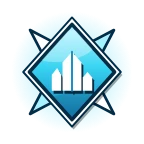
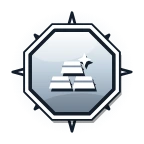
Cards: new Eclipse, Platinum and Master art; Champion goes green
- Eclipse: total eclipse over a night desert - thin bright ring, slowly
  turning corona streamers, a diamond-ring flare with a light streak, and
  mesa and cactus silhouettes rimmed in gold.
- Platinum no longer looks like diamond: polished platinum plates with
  running reflections and stacked ingots; octagon plate emblem with an
  ingot glyph and silver glints.
- Master: crimson/black focus lines with a large scope reticle and bullet
  holes; reticle glyph and a fan of blades on the emblem.
- Champion is green with gold accents (palette, emblem, bandolier, name
  plates, rank colour, lightning-arrow background).
- Fix: the Eclipse border sheen leaked outside the card when a bio was
  shown (the bio bubble reused the border-width variable).
- Guide emblem images regenerated; update notes adjusted.

Claude-Session: https://claude.ai/code/session_0164eB5PaZJ6XHbAKazwPAse

diff --git a/index.html b/index.html
@@ -6214,7 +6214,7 @@ function renderProfileUI(){
 // 下から：LT5<HT5<LT4<HT4<LT3<HT3<LT2<HT2<LT1<HT1
 // color は画面の差し色（進み具合のバー・丸いアイコンの背景・Discord）。紋章の素材は TIER_STYLE
 // ランク（8つ×Ⅰ〜Ⅲの24段）。key は通信や記録に使う記号（BR1〜EC3）、color はランクの色（Ⅰ〜Ⅲは同じ）
-var RANK_COLOR=['#6874B8','#C9824C','#A3AAB4','#E2B13C','#8FD3F5','#B983FF','#E0314B','#4FAEFF','#FFE7A8'];
+var RANK_COLOR=['#6874B8','#C9824C','#A3AAB4','#E2B13C','#C3D5E2','#B983FF','#E0314B','#3FD86A','#FFE7A8'];
 var TIER_LADDER=SIM.TIER_KEYS.map(function(k,i){var rk=SIM.rankOf(i);return{key:k,color:RANK_COLOR[rk.r],r:rk.r,d:rk.d};});
 // CPU戦の到達度（0〜10）。称号・背景の解放と、ランクマッチを始めるまでのレートの下限に使う
 function cpuTierIndex(){
@@ -11581,7 +11581,8 @@ var METAL={
   ivory:  ['#FFFFFF','#FFFBF0','#F3E9D0','#DCCBA4','#B39E72'],
   platinum:['#FFFFFF','#E6F4F8','#B6D3DE','#7E9FAD','#4D6B79'],   // プラチナ：青みのある白銀
   amethyst:['#F6E9FF','#CFA6F5','#9A63D2','#62349A','#331856'],   // レジェンド：紫水晶
-  cobalt: ['#DCEEFF','#6FB2F2','#3576C7','#1B4C8F','#0B2552']     // チャンピオン：青い鋼
+  cobalt: ['#DCEEFF','#6FB2F2','#3576C7','#1B4C8F','#0B2552'],    // 青い鋼
+  emerald:['#E2FFE8','#7BE79A','#2FB45A','#167A35','#073D19']     // チャンピオン：緑の鋼
 };
 var LENS='#B3162E';   // スコープのレンズの色
 // 上から光が当たった金属（明るい面・暗い帯・照り返し）
@@ -11610,7 +11611,7 @@ var TIER_STYLE=[
   {m:'platinum',trim:'platinum',glow:'#D8F6FF',bg:['#5F8494','#22363F','#070D12'],pill:['#F4FBFE','#A9C9D6','#FFFFFF','#16323E'],rib:['#2C6F86','#0D2B38','#D8F6FF','#FFFFFF']},   // プラチナ
   {m:'amethyst',trim:'amethyst',glow:'#DCAEFF',bg:['#4A2A6E','#1E1030','#07030E'],pill:['#D7B4FF','#8A55CC','#F3E4FF','#1E0B32'],rib:['#4A1F72','#1E0B32','#CFA6F5','#FFF3FF']},   // レジェンド
   {m:'crimson', trim:'silver',  glow:'#FF6A6A',bg:['#4A1018','#20070B','#070203'],pill:['#E0283C','#8E0F22','#E6EBF0','#FFFFFF'],rib:['#6E0F1C','#2C050B','#E6EBF0','#FFFFFF']},   // マスター
-  {m:'cobalt',  trim:'gold',    glow:'#7CC8FF',bg:['#123E86','#071A3E','#01040E'],pill:['#4FAEFF','#1E5FB8','#FFD968','#FFFFFF'],rib:['#0F3A86','#061736','#EBC867','#FFF3D0']},   // チャンピオン
+  {m:'emerald', trim:'gold',    glow:'#7CF29A',bg:['#0E5A2A','#05260F','#010A04'],pill:['#3FD86A','#178A3E','#FFD968','#FFFFFF'],rib:['#0F5A2A','#052A12','#EBC867','#FFF3D0']},   // チャンピオン（緑）
   {m:'onyx',    trim:'gold',    glow:'#FFD98A',bg:['#2B2631','#131016','#050406'],pill:['#3A3440','#121016','#E8B84A','#F5D67A'],rib:['#1E1B22','#07060A','#FFD968','#FFE7A0']}    // エクリプス
 ];
 function artStyle(a){return TIER_STYLE[a]||TIER_STYLE[0];}           // 絵の番号で
@@ -11829,10 +11830,10 @@ var TIER_BG=[
   {c:['#94502A','#3E1D0C','#0A0402'],glow:'#FFB478',acc:'#FFD7BD',pat:'strata', par:'dust',    flat:'pop1',pop:1,   em:'shield'},    // ブロンズ：荒野の夕日・青銅の盾
   {c:['#56606D','#23282F','#07080A'],glow:'#D3DCE8',acc:'#DCE2EA',pat:'rivets', par:'sparks',  flat:'pop2',pop:1,    em:'gear'},      // アイアン：鉄の歯車・火花
   {c:['#B07A14','#452C06','#0B0602'],glow:'#FFD65C',acc:'#FFF1B8',pat:'sheriff',par:'coins',   flat:'pop3',pop:1,  em:'sheriff'},   // ゴールド：金の保安官の星
-  {c:['#9FD6EC','#2B5A70','#06121A'],glow:'#D8F6FF',acc:'#F2FCFF',pat:'snow',   par:'motes',   flat:'pop4',pop:1, em:'crystal'},   // プラチナ：白銀の結晶
+  {c:['#C4D3DF','#5A6B7C','#0E151E'],glow:'#E8F4FF',acc:'#FFFFFF',pat:'snow',   par:'motes',   flat:'pop4',pop:1, em:'ingot'},   // プラチナ：白銀の結晶
   {c:['#6E2FA6','#2A1044','#07030E'],glow:'#DCAEFF',acc:'#F4E4FF',pat:'suits',  par:'shards',  flat:'pop5',pop:1,   em:'planet'},    // レジェンド：紫の宇宙・輪のある惑星
-  {c:['#A3172D','#3F0812','#0A0103'],glow:'#FF7182',acc:'#FFD6DC',pat:'roses',  par:'petals',  flat:'pop6',pop:1,   em:'flames'},    // マスター：深紅の炎
-  {c:['#1348A8','#08204E','#01040E'],glow:'#56CCFF',acc:'#D4F3FF',pat:'flames', par:'embers',  flat:'pop7',pop:1,em:'bolt'},      // チャンピオン：青い稲妻
+  {c:['#A3172D','#3F0812','#0A0103'],glow:'#FF7182',acc:'#FFD6DC',pat:'roses',  par:'petals',  flat:'pop6',pop:1,   em:'reticle'},    // マスター：深紅の炎
+  {c:['#178A3E','#08391A','#010A04'],glow:'#7CF29A',acc:'#DFFFE6',pat:'flames', par:'embers',  flat:'pop7',pop:1,em:'bolt'},      // チャンピオン：緑の稲妻
   {c:['#2A2216','#0E0B08','#030202'],glow:'#FFD98A',acc:'#FFF1C8',pat:'deco',   par:'golddust',flat:'pop8',pop:1,  em:'eclipse'}    // エクリプス：黒い太陽と金のコロナ
 ];
 // 紋章：どのティアも同じ六角形のバッジ。色は背景と同じティアの色、縁はティアの金属、真ん中に背景の模様と同じ記号を1つ
@@ -11845,20 +11846,20 @@ var POP=[
   {b:'#E07B39',l:'#FFB27A',d:'#9A4A1C',k:'#33130A',a:'#FFE3C6',t:'#33130A'},   // ブロンズ
   {b:'#97A3B6',l:'#D6DEEA',d:'#5C6779',k:'#161B24',a:'#F4F8FC',t:'#161B24'},   // アイアン
   {b:'#FFC43D',l:'#FFE68C',d:'#D98E12',k:'#3E2400',a:'#FFF7CF',t:'#3E2400'},   // ゴールド
-  {b:'#36D3F2',l:'#A6F1FF',d:'#1786C0',k:'#062B44',a:'#E9FDFF',t:'#062B44'},   // プラチナ
+  {b:'#C4D3DF',l:'#FFFFFF',d:'#7B8EA2',k:'#141E2A',a:'#C8F7FF',t:'#141E2A'},   // プラチナ（白金）
   {b:'#A35CFF',l:'#D4A9FF',d:'#6A2CC4',k:'#22073D',a:'#F3E6FF',t:'#22073D'},   // レジェンド
-  {b:'#FF3448',l:'#FF8F94',d:'#B5102A',k:'#360310',a:'#FFE3E3',t:'#360310'},   // マスター
-  {b:'#2F7BFF',l:'#8EBDFF',d:'#1747B8',k:'#05123A',a:'#FFE27A',t:'#05123A'},   // チャンピオン
+  {b:'#E8283C',l:'#FF7C86',d:'#9C0D22',k:'#2A020A',a:'#FFE3E3',t:'#2A020A'},   // マスター（深紅と黒）
+  {b:'#33D05A',l:'#A3F7B0',d:'#13873A',k:'#042610',a:'#FFE27A',t:'#042610'},   // チャンピオン（緑と金）
   {b:'#2C2240',l:'#5A4880',d:'#140E22',k:'#05030A',a:'#FFD45C',t:'#FFE27A'}    // エクリプス（黒と金）
 ];
 function popOf(r){return POP[Math.max(0,Math.min(POP.length-1,r|0))];}
-// 紋章の形：未ランク・エクリプス＝丸、ブロンズ・マスター・チャンピオン＝盾、アイアン・レジェンド＝六角、ゴールド＝ぎざぎざの金貨、プラチナ＝ひし形
+// 紋章の形：未ランク・エクリプス＝丸、ブロンズ・マスター・チャンピオン＝盾、アイアン・レジェンド＝六角、ゴールド＝ぎざぎざの金貨、プラチナ＝八角のプレート
 function popShape(g,r,R){
   var i,a;g.beginPath();
   if(r===1||r===6||r===7){g.moveTo(-R*.92,-R*.82);g.quadraticCurveTo(0,-R*1.08,R*.92,-R*.82);g.lineTo(R*.9,R*.08);g.quadraticCurveTo(R*.78,R*.76,0,R*1.06);g.quadraticCurveTo(-R*.78,R*.76,-R*.9,R*.08);g.closePath();}
   else if(r===2||r===5){for(i=0;i<6;i++){a=-Math.PI/2+i*Math.PI/3;g.lineTo(Math.cos(a)*R*1.04,Math.sin(a)*R*1.04);}g.closePath();}
   else if(r===3){for(i=0;i<=72;i++){a=i/72*Math.PI*2;var rr=R*(1.02+.06*Math.cos(a*12));g.lineTo(Math.cos(a)*rr,Math.sin(a)*rr);}g.closePath();}
-  else if(r===4){g.moveTo(0,-R*1.14);g.lineTo(R*1.02,0);g.lineTo(0,R*1.14);g.lineTo(-R*1.02,0);g.closePath();}
+  else if(r===4){for(i=0;i<8;i++){a=Math.PI/8+i*Math.PI/4;g.lineTo(Math.cos(a)*R*1.06,Math.sin(a)*R*1.06);}g.closePath();}
   else g.arc(0,0,R,0,Math.PI*2);
 }
 function drawEmblem(g,idx,tm){   // idx＝絵の番号＝ランク（0〜8）
@@ -11965,6 +11966,14 @@ function emGlyph(g,pat,idx,tm){
     g.beginPath();g.arc(0,0,15,0,Math.PI*2);g.fill();
     emHole(g);for(i=0;i<6;i++){a=i*Math.PI/3;g.beginPath();g.arc(Math.cos(a)*8.5,Math.sin(a)*8.5,3.6,0,Math.PI*2);g.fill();}
     g.beginPath();g.arc(0,0,2.4,0,Math.PI*2);g.fill();emHoleEnd(g);break;
+  case 'ingot':   // 白金の延べ棒（3本積み）
+    g.beginPath();[[-8.5,7.5],[8.5,7.5],[0,-3.5]].forEach(function(q){var cx=q[0],cy=q[1];g.moveTo(cx-5.5,cy-4.2);g.lineTo(cx+5.5,cy-4.2);g.lineTo(cx+8.2,cy+4.4);g.lineTo(cx-8.2,cy+4.4);g.closePath();});g.fill();
+    emHole(g);g.lineWidth=1.3;g.beginPath();[[-8.5,7.5],[8.5,7.5],[0,-3.5]].forEach(function(q){g.moveTo(q[0]-6.6,q[1]-.6);g.lineTo(q[0]+6.6,q[1]-.6);});g.stroke();emHoleEnd(g);
+    g.beginPath();g.moveTo(9,-14);g.lineTo(10.5,-10.5);g.lineTo(14,-9);g.lineTo(10.5,-7.5);g.lineTo(9,-4);g.lineTo(7.5,-7.5);g.lineTo(4,-9);g.lineTo(7.5,-10.5);g.closePath();g.fill();break;
+  case 'reticle': // 照準
+    g.beginPath();g.arc(0,0,10.5,0,Math.PI*2);var lw0=g.lineWidth;g.lineWidth=lw0*1.25;g.stroke();
+    g.beginPath();[[0,-16,0,-5.5],[0,5.5,0,16],[-16,0,-5.5,0],[5.5,0,16,0]].forEach(function(l){g.moveTo(l[0],l[1]);g.lineTo(l[2],l[3]);});g.stroke();g.lineWidth=lw0;
+    g.beginPath();g.arc(0,0,2.6,0,Math.PI*2);g.fill();break;
   case 'shield':  // 青銅の盾
     g.beginPath();g.moveTo(-13,-13);g.lineTo(13,-13);g.lineTo(13,0);g.quadraticCurveTo(12,10,0,16);g.quadraticCurveTo(-12,10,-13,0);g.closePath();g.fill();
     emHole(g);g.lineWidth=2.2;g.beginPath();g.moveTo(0,-9);g.lineTo(0,11);g.moveTo(-9,-3);g.lineTo(9,-3);g.stroke();emHoleEnd(g);break;
@@ -11985,18 +11994,17 @@ function emBack(g,r,R,tm){
   g.save();g.lineJoin='round';
   var spike=function(ang,inner,outer,hw,fill){g.save();g.rotate(ang);g.beginPath();g.moveTo(-hw,-inner);g.lineTo(0,-outer);g.lineTo(hw,-inner);g.closePath();g.fillStyle=fill;g.fill();g.lineWidth=2;g.strokeStyle=C.k;g.stroke();g.restore();};
   if(r===3){for(i=0;i<8;i++)spike(i*Math.PI/4+Math.PI/8,R*.8,R+12,5.5,i%2?C.l:C.b);}   // ゴールド：金の光
-  else if(r===4){for(i=0;i<4;i++)spike(Math.PI/4+i*Math.PI/2,R*.75,R+13,6.5,i%2?'#FFFFFF':C.l);}   // プラチナ：結晶
+  else if(r===4){for(i=0;i<8;i++)spike(i*Math.PI/4,R*.85,R+(i%2?7:12),i%2?3.5:4.5,i%2?C.b:'#FFFFFF');}   // プラチナ：白金のきらめき
   else if(r===5||r===7){   // レジェンド：紫の翼 ／ チャンピオン：青と金の大きな翼
     var big=r===7,len=big?22:18,flap=Math.sin(tm*2.2)*.05,cols=big?[C.b,C.l,'#FFFFFF']:[C.d,C.b,C.l];
     [-1,1].forEach(function(sd){g.save();g.translate(sd*(R-6),-2);g.scale(sd,1);g.rotate(-flap);
       for(var j=(big?3:2);j>=0;j--){g.save();g.rotate(-.75+j*.32);featherPath(g,len-j*2.5,(len-j*2.5)*.4);g.fillStyle=cols[Math.min(2,j)];g.fill();g.lineWidth=2;g.strokeStyle=C.k;g.stroke();g.restore();}
       if(big){g.save();g.rotate(-1.08);featherPath(g,len*.8,len*.3);g.fillStyle=C.a;g.fill();g.lineWidth=2;g.strokeStyle=C.k;g.stroke();g.restore();}
       g.restore();});
-  }else if(r===6){   // マスター：炎が立ちのぼる
-    var fl=tm*5;
-    [[-1,.7],[1,.7],[-.45,1],[.45,1],[0,1.3]].forEach(function(q,j){var fx=q[0]*R*.6,fh=(15+q[1]*9)*(1+.12*Math.sin(fl+j*1.7)),fw=7+q[1]*2,by=-R*.5;
-      g.beginPath();g.moveTo(fx-fw,by);g.quadraticCurveTo(fx-fw*.9,by-fh*.6,fx+Math.sin(fl+j)*2,by-fh);g.quadraticCurveTo(fx+fw*.9,by-fh*.6,fx+fw,by);g.closePath();
-      g.fillStyle=j===4?'#FFD27A':j>1?'#FF8A3D':C.b;g.fill();g.lineWidth=2;g.strokeStyle=C.k;g.stroke();});
+  }else if(r===6){   // マスター：上に広がる鋭い刃（深紅と黒）
+    for(i=0;i<7;i++){a=-Math.PI/2+(i-3)*.36;var ln=R+(i===3?20:i%2?15:11)+Math.sin(tm*3+i)*1.2;
+      g.save();g.rotate(a+Math.PI/2);g.beginPath();g.moveTo(-5,-R*.7);g.lineTo(0,-ln);g.lineTo(5,-R*.7);g.closePath();g.fillStyle=i%2?'#1A0208':C.b;g.fill();g.lineWidth=2;g.strokeStyle=C.k;g.stroke();
+      g.beginPath();g.moveTo(-1.2,-R*.8);g.lineTo(0,-ln+3);g.lineWidth=1.1;g.strokeStyle=i%2?'#FF5A68':'#FFB0B5';g.stroke();g.restore();}
   }else if(r>=8){   // エクリプス：回る金のコロナ
     g.save();g.rotate(tm*.25);for(i=0;i<14;i++)spike(i*Math.PI/7,R*.82,R+(i%2?9:16),4.2,i%2?'#FF9A2E':C.a);g.restore();
   }
@@ -12036,7 +12044,7 @@ function emDiv(g,idx){
   g.restore();
 }
 // 紋章ごとの大きさ。アイコンでは、これを w×h の中にぴったり収める（label ならティア名の札も入れる）
-var EM_BOX=[[-38,-38,38,38],[-38,-38,38,40],[-38,-38,38,38],[-46,-46,46,46],[-46,-46,46,46],[-52,-40,52,38],[-40,-54,40,40],[-56,-42,56,40],[-50,-50,50,50]];   // ランクごと（白いふち・翼・炎・コロナのぶん広い）
+var EM_BOX=[[-38,-38,38,38],[-38,-38,38,40],[-38,-38,38,38],[-46,-46,46,46],[-45,-45,45,45],[-52,-40,52,38],[-46,-54,46,40],[-56,-42,56,40],[-50,-50,50,50]];   // ランクごと（白いふち・翼・炎・コロナのぶん広い）
 function drawTierIcon(g,idx,cx,cy,w,h,tm,label){   // idx＝段の番号。label なら名前の札、そうでなければ Ⅰ〜Ⅲ の小さな札
   var a=tierArt(idx),b=EM_BOX[a]||EM_BOX[0],x0=b[0],y0=b[1],x1=b[2],y1=label?Math.max(b[3],58):Math.max(b[3],idx>0?40:b[3]);
   var sc=Math.min(w/(x1-x0),h/(y1-y0));
@@ -12805,23 +12813,29 @@ function popBg3(g,w,h,tm,lw){
   spikes(['#FFD23F','#FFE68C'],0,.58,37);
   popStars(g,w,h,tm,8,['#FFF7CF','#FFD23F'],7,.6);
 }
-// プラチナ：氷の結晶と、大きな水色の弧
-function popShard(g,cx,by,cw,ch,ang,cols,ink,L){
-  g.save();g.translate(cx,by);g.rotate(ang);var hw=cw/2;
-  popPoly(g,[[-hw,0],[-hw*.8,-ch*.7],[0,-ch],[hw*.8,-ch*.72],[hw,0]],cols[0],ink,L);
-  popPoly(g,[[0,0],[0,-ch],[hw*.8,-ch*.72],[hw,0]],cols[1],null);
-  popPoly(g,[[-hw*.55,-ch*.12],[-hw*.4,-ch*.7],[-hw*.15,-ch*.78],[-hw*.25,-ch*.15]],cols[2],null);
-  g.beginPath();g.moveTo(-hw,0);g.lineTo(-hw*.8,-ch*.7);g.lineTo(0,-ch);g.lineTo(hw*.8,-ch*.72);g.lineTo(hw,0);g.lineJoin='round';g.lineWidth=L;g.strokeStyle=ink;g.stroke();
-  g.restore();
+// プラチナ：磨いた白金のプレートが斜めに重なり、光の反射が走る。下の左右に積んだ延べ棒
+function popIngot(g,cx,cy,s,ink,L){
+  var tp=[[cx-s*.32,cy-s*.2],[cx+s*.32,cy-s*.2],[cx+s*.5,cy+s*.2],[cx-s*.5,cy+s*.2]];
+  var gr=g.createLinearGradient(0,cy-s*.2,0,cy+s*.2);gr.addColorStop(0,'#FFFFFF');gr.addColorStop(.45,'#D3DEE8');gr.addColorStop(1,'#8C9DB0');
+  popPoly(g,tp,gr,ink,L);popPoly(g,[[cx-s*.32,cy-s*.2],[cx+s*.32,cy-s*.2],[cx+s*.26,cy-s*.08],[cx-s*.26,cy-s*.08]],'rgba(255,255,255,.75)',null);
 }
 function popBg4(g,w,h,tm,lw){
-  var C=POP[4],L=lw*1.8;g.fillStyle=popGrad(g,h,'#0F5A8C','#062440');g.fillRect(0,0,w,h);
-  g.strokeStyle='rgba(160,230,255,.08)';g.lineWidth=lw;for(var y=h*.1;y<h;y+=h*.12){g.beginPath();g.moveTo(0,y);g.lineTo(w,y);g.stroke();}for(var x=w*.1;x<w;x+=w*.2){g.beginPath();g.moveTo(x,0);g.lineTo(x,h);g.stroke();}
-  g.save();g.beginPath();g.arc(w*.05,h*.62,w*.82,-1.45,-.25);g.lineWidth=w*.12;g.strokeStyle=C.k;g.stroke();g.lineWidth=w*.1;g.strokeStyle='#2FE0FF';g.stroke();g.lineWidth=w*.025;g.strokeStyle='#E9FDFF';g.beginPath();g.arc(w*.05,h*.62,w*.85,-1.4,-.35);g.stroke();g.restore();
-  var A=['#38C8FF','#1E7FE0','#BFF6FF'],B=['#7FE6FF','#36B4F0','#FFFFFF'];
-  [[.86,1.02,.22,.82,.3,A],[.12,1.02,.22,.76,-.35,A],[.66,1.05,.17,.58,.12,B],[.32,1.05,.16,.55,-.12,B],[.98,1.03,.15,.5,.6,B]].forEach(function(c){popShard(g,w*c[0],h*c[1],w*c[2],h*c[3],c[4],c[5],C.k,L);});
-  [[.92,.25],[.05,.32],[.7,.5]].forEach(function(q,j){var tw=Math.max(0,Math.sin(tm*1.8+j*2));g.fillStyle='#FFFFFF';flatStar4(g,w*q[0],h*q[1],w*.05*tw);g.fill();});
-  popStars(g,w,h,tm,6,['#E9FDFF'],5,.5);
+  var C=POP[4],L=lw*1.8,i;g.fillStyle=popGrad(g,h,'#3A4A5C','#0D141D');g.fillRect(0,0,w,h);
+  popDots(g,w,h,'rgba(200,240,255,.05)',w*.05);
+  // 斜めに重なる白金のプレート（ふちは太線、面は磨いた金属のグラデーション）
+  [[-.3,.05,.62,'#A7B7C7'],[.25,-.05,.5,'#C4D3DF'],[.55,.32,.55,'#B3C3D2'],[-.25,.55,.5,'#93A5B8']].forEach(function(q,j){
+    g.save();g.translate(w*(q[0]+q[2]/2),h*(q[1]+.25));g.rotate(-.5);var pw=w*q[2],ph=h*.17;
+    var mg=g.createLinearGradient(0,-ph/2,0,ph/2);mg.addColorStop(0,'#FFFFFF');mg.addColorStop(.35,q[3]);mg.addColorStop(.7,'#6C7E92');mg.addColorStop(1,'#B9C8D6');
+    rrPath(g,-pw/2,-ph/2,pw,ph,ph*.18);g.fillStyle=mg;g.fill();g.lineWidth=L;g.strokeStyle=C.k;g.stroke();
+    [-pw/2+ph*.3,pw/2-ph*.3].forEach(function(rx){g.beginPath();g.arc(rx,0,ph*.09,0,Math.PI*2);g.fillStyle='#E9F2F8';g.fill();g.lineWidth=L*.6;g.stroke();});   // ねじ
+    var sp=((tm*.3+j*.27)%1.4)/1.4;   // 面を走る光
+    if(sp<.6){g.save();rrPath(g,-pw/2,-ph/2,pw,ph,ph*.18);g.clip();var sx=-pw*.7+sp/.6*pw*1.4,sg=g.createLinearGradient(sx-ph,0,sx+ph,0);sg.addColorStop(0,'rgba(255,255,255,0)');sg.addColorStop(.5,'rgba(255,255,255,.85)');sg.addColorStop(1,'rgba(255,255,255,0)');g.fillStyle=sg;g.fillRect(-pw,-ph,pw*2,ph*2);g.restore();}
+    g.restore();});
+  // 積んだ延べ棒（左下・右下）
+  var s=w*.2;
+  [[.13,.9],[.33,.9],[.23,.8],[.78,.92],[.98,.92],[.88,.82]].forEach(function(q){popIngot(g,w*q[0],h*q[1],s,C.k,L);});
+  // きらめき（白と、すこし水色）
+  [[.18,.72],[.86,.7],[.62,.18],[.08,.2],[.92,.38]].forEach(function(q,j){var tw=Math.max(0,Math.sin(tm*1.9+j*1.7));g.fillStyle=j%2?'#C8F7FF':'#FFFFFF';flatStar4(g,w*q[0],h*q[1],w*.05*tw);g.fill();});
 }
 // レジェンド：紫の宇宙。うずと、輪のある惑星
 function popBg5(g,w,h,tm,lw){
@@ -12838,51 +12852,91 @@ function popBg5(g,w,h,tm,lw){
   g.restore();
   popStars(g,w,h,tm,14,['#FFFFFF','#FFD45C','#D4A9FF'],9,.95);
 }
-// マスター：大きな炎のうねり（深紅・赤・サーモン・クリーム）
-function popFlame(g,cx,by,fw,fh,tm,sd,cols,ink,L){
-  var sw=Math.sin(tm*2.6+sd)*fw*.18;
-  for(var k=0;k<cols.length;k++){var s=1-k*.24,ww=fw*s,hh=fh*s,yy=by;
-    g.beginPath();g.moveTo(cx-ww,yy);g.bezierCurveTo(cx-ww*1.1,yy-hh*.55,cx-ww*.2+sw,yy-hh*.7,cx+sw*1.4,yy-hh);g.bezierCurveTo(cx+ww*.5+sw,yy-hh*.62,cx+ww*1.15,yy-hh*.4,cx+ww,yy);g.closePath();
-    g.fillStyle=cols[k];g.fill();if(k===0&&ink){g.lineJoin='round';g.lineWidth=L;g.strokeStyle=ink;g.stroke();}}
-}
+// マスター：深紅と黒の集中線に、大きなスコープの照準（ゆっくり回る）。ふちには弾の穴、のぼる火の粉
 function popBg6(g,w,h,tm,lw){
-  var C=POP[6],L=lw*1.8;g.fillStyle=popGrad(g,h,'#6A0A18','#2A0207');g.fillRect(0,0,w,h);
-  flatSpot(g,w*.7,h*.15,w*.6,'rgba(255,120,60,.22)');
-  var cols=['#B5102A','#FF4D3D','#FF9A6B','#FFD8A0'];
-  [[.15,1.05,.32,.95,0],[.85,1.05,.3,.85,1.7],[.5,1.08,.28,.62,3.1],[-.02,1.05,.2,.55,4.2],[1.02,1.05,.2,.6,5.3]].forEach(function(f){popFlame(g,w*f[0],h*f[1],w*f[2],h*f[3],tm,f[4],cols,C.k,L);});
-  for(var i=0;i<12;i++){var t=(tm*.35+i*.083)%1;g.globalAlpha=Math.sin(t*Math.PI);g.fillStyle=i%2?'#FFD27A':'#FF8A3D';g.beginPath();g.arc(w*((i*.31+.05)%1)+Math.sin(tm*3+i)*w*.02,h*(.95-t*.85),w*(.008+.006*(i%3)),0,Math.PI*2);g.fill();}
+  var C=POP[6],L=lw*1.8,i,cx=w*.46,cy=h*.38;
+  g.fillStyle=popGrad(g,h,'#6A0716','#12020A');g.fillRect(0,0,w,h);
+  // 集中線（中心から外へ、深紅と黒）
+  g.save();g.translate(cx,cy);
+  for(i=0;i<40;i++){var a=i*Math.PI*2/40+prand(i)*.08,ww=.025+.03*prand(i*3+1),r0=w*(.32+.12*prand(i*7));g.beginPath();g.moveTo(Math.cos(a-ww)*r0,Math.sin(a-ww)*r0);g.lineTo(Math.cos(a)*h*1.3,Math.sin(a)*h*1.3);g.lineTo(Math.cos(a+ww)*r0,Math.sin(a+ww)*r0);g.closePath();g.fillStyle=i%2?'rgba(10,0,4,.55)':'rgba(232,40,60,.45)';g.fill();}
+  g.restore();
+  flatSpot(g,cx,cy,w*.55,'rgba(255,80,90,.28)');
+  // 照準：太い輪・目盛り・十字（真ん中は空ける）
+  var R=w*.36;
+  g.save();g.translate(cx,cy);
+  g.beginPath();g.arc(0,0,R,0,Math.PI*2);g.lineWidth=w*.05;g.strokeStyle=C.k;g.stroke();g.lineWidth=w*.032;g.strokeStyle=C.b;g.stroke();
+  g.beginPath();g.arc(0,0,R*.62,0,Math.PI*2);g.lineWidth=w*.022;g.strokeStyle=C.k;g.stroke();g.lineWidth=w*.011;g.strokeStyle='#FF7C86';g.stroke();
+  g.save();g.rotate(tm*.12);for(i=0;i<24;i++){var ta=i*Math.PI/12,t0=R*(i%3?1.08:1.04),t1=R*(i%3?1.16:1.24);g.beginPath();g.moveTo(Math.cos(ta)*t0,Math.sin(ta)*t0);g.lineTo(Math.cos(ta)*t1,Math.sin(ta)*t1);g.lineWidth=w*(i%3?.012:.02);g.strokeStyle=i%3?'#FF7C86':'#FFE3E3';g.stroke();}g.restore();
+  [[0,-1],[0,1],[-1,0],[1,0]].forEach(function(d){g.beginPath();g.moveTo(d[0]*R*.32,d[1]*R*.32);g.lineTo(d[0]*R*1.7,d[1]*R*1.7);g.lineCap='butt';g.lineWidth=w*.03;g.strokeStyle=C.k;g.stroke();g.lineWidth=w*.014;g.strokeStyle='#FF4A5C';g.stroke();});
+  g.restore();
+  // 弾の穴（ひびの入った白い穴）
+  [[.1,.14,1],[.88,.56,.8],[.82,.12,.7]].forEach(function(q){var hx=w*q[0],hy=h*q[1],hr=w*.03*q[2];
+    g.beginPath();for(var k=0;k<7;k++){var ka=k*Math.PI*2/7+q[0]*9;g.moveTo(hx,hy);g.lineTo(hx+Math.cos(ka)*hr*2.6,hy+Math.sin(ka)*hr*2.6);}g.lineWidth=Math.max(1,w*.005);g.strokeStyle='rgba(255,220,220,.75)';g.stroke();
+    g.beginPath();g.arc(hx,hy,hr,0,Math.PI*2);g.fillStyle='#0A0004';g.fill();g.lineWidth=L*.8;g.strokeStyle='#FFE3E3';g.stroke();});
+  for(i=0;i<12;i++){var t=(tm*.35+i*.083)%1;g.globalAlpha=Math.sin(t*Math.PI);g.fillStyle=i%2?'#FFD27A':'#FF5A68';g.beginPath();g.arc(w*((i*.31+.05)%1)+Math.sin(tm*3+i)*w*.02,h*(.98-t*.6),w*(.007+.005*(i%3)),0,Math.PI*2);g.fill();}
   g.globalAlpha=1;
 }
 // チャンピオン：右上へ突き抜ける大きな稲妻の矢（青・白・金）としずく
 function popBg7(g,w,h,tm,lw){
-  var C=POP[7],L=lw*1.8,fl=Math.max(0,Math.sin(tm*1.7)*8-7);g.fillStyle=popGrad(g,h,'#0E2560','#040B22');g.fillRect(0,0,w,h);
-  flatSpot(g,w*.75,h*.22,w*.7,'rgba(120,190,255,'+(.22+fl*.2).toFixed(3)+')');
+  var C=POP[7],L=lw*1.8,fl=Math.max(0,Math.sin(tm*1.7)*8-7);g.fillStyle=popGrad(g,h,'#0D4A22','#03160A');g.fillRect(0,0,w,h);
+  flatSpot(g,w*.75,h*.22,w*.7,'rgba(150,255,170,'+(.22+fl*.2).toFixed(3)+')');
   var arrow=[[-.1,.78],[.42,.42],[.38,.36],[.78,.16],[.74,.1],[1.05,.05],[.9,.34],[.84,.3],[.5,.56],[.53,.62],[.02,.92]].map(function(p){return[p[0]*w,p[1]*h];});
-  g.save();g.translate(w*.025,h*.02);popPoly(g,arrow,'#6A4CFF',null);g.restore();
-  popPoly(g,arrow,'#2F7BFF',C.k,L*1.2);
+  g.save();g.translate(w*.025,h*.02);popPoly(g,arrow,'#0B5A25',null);g.restore();
+  popPoly(g,arrow,'#3BE36A',C.k,L*1.2);
   var inner=[[.06,.8],[.44,.46],[.42,.43],[.8,.2],[.92,.12],[.84,.27],[.48,.5],[.5,.53],[.1,.82]].map(function(p){return[p[0]*w,p[1]*h];});
-  popPoly(g,inner,'#9CD0FF',null);
-  [[.62,.43,.05],[.3,.66,.04]].forEach(function(d){var dx=w*d[0],dy=h*d[1],r=w*.016,ln=h*d[2]*(1+.15*Math.sin(tm*2+d[0]*9));g.beginPath();g.moveTo(dx-r,dy);g.lineTo(dx-r,dy+ln);g.arc(dx,dy+ln,r,Math.PI,0,true);g.lineTo(dx+r,dy);g.closePath();g.fillStyle='#2F7BFF';g.fill();g.lineWidth=L*.8;g.strokeStyle=C.k;g.stroke();});
-  popPuffs(g,[[w*.1,h*1.02,w*.2],[w*.4,h*1.06,w*.22],[w*.75,h*1.02,w*.24],[w*1.02,h*1.0,w*.18]],'#1747B8',C.k,L);
+  popPoly(g,inner,'#D2FFB4',null);
+  [[.62,.43,.05],[.3,.66,.04]].forEach(function(d){var dx=w*d[0],dy=h*d[1],r=w*.016,ln=h*d[2]*(1+.15*Math.sin(tm*2+d[0]*9));g.beginPath();g.moveTo(dx-r,dy);g.lineTo(dx-r,dy+ln);g.arc(dx,dy+ln,r,Math.PI,0,true);g.lineTo(dx+r,dy);g.closePath();g.fillStyle='#3BE36A';g.fill();g.lineWidth=L*.8;g.strokeStyle=C.k;g.stroke();});
+  popPuffs(g,[[w*.1,h*1.02,w*.2],[w*.4,h*1.06,w*.22],[w*.75,h*1.02,w*.24],[w*1.02,h*1.0,w*.18]],'#13873A',C.k,L);
   popStars(g,w,h,tm,9,['#FFE27A','#FFFFFF'],13,.7);
-  if(fl>0){g.fillStyle='rgba(200,230,255,'+(fl*.15).toFixed(3)+')';g.fillRect(0,0,w,h);}
+  if(fl>0){g.fillStyle='rgba(210,255,215,'+(fl*.15).toFixed(3)+')';g.fillRect(0,0,w,h);}
 }
-// エクリプス：黒い太陽と、金とオレンジのとがったコロナ（ゆっくり回る）
+// エクリプス：夜の荒野の上の皆既日食。黒い太陽のふちは細く強い光の輪、細いコロナの筋がゆっくり回る。
+// ふちの1点が強く光り（ダイヤモンドリング）、横に光の筋。下は金のふち光が当たった台地とサボテンの影絵
 function popBg8(g,w,h,tm,lw){
-  var C=POP[8],L=lw*1.8;g.fillStyle=popGrad(g,h,'#24123A','#05030A');g.fillRect(0,0,w,h);
-  popDots(g,w,h,'rgba(255,212,92,.05)',w*.06);
-  popStars(g,w,h,tm,12,['#FFD45C','#D4A9FF','#FFFFFF'],17,.95);
-  var cx=w*.5,cy=h*.34,R=w*.22;
-  flatSpot(g,cx,cy,w*.8,'rgba(255,190,80,.28)');
-  g.save();g.translate(cx,cy);g.rotate(tm*.1);
-  for(var i=0;i<16;i++){var a=i*Math.PI/8,Lr=R*(i%2?1.55:2.05)*(1+.05*Math.sin(tm*2+i)),hw=i%2?.13:.17;
-    popPoly(g,[[Math.cos(a-hw)*R*.95,Math.sin(a-hw)*R*.95],[Math.cos(a)*Lr,Math.sin(a)*Lr],[Math.cos(a+hw)*R*.95,Math.sin(a+hw)*R*.95]],i%2?'#FF9A2E':'#FFD45C',C.k,L);}
+  var C=POP[8],L=lw*1.8,i,cx=w*.6,cy=h*.27,R=w*.2;
+  g.fillStyle=popGrad(g,h,'#2B0C47','#06020C');g.fillRect(0,0,w,h);
+  // 日食のまわりの光の輪（外ほど暗い、くっきりした段）
+  [[3.6,'#1F0A36'],[2.8,'#2C0F4A'],[2.15,'#3E1663'],[1.65,'#5A1F7E']].forEach(function(q){g.beginPath();g.arc(cx,cy,R*q[0],0,Math.PI*2);g.fillStyle=q[1];g.fill();});
+  popStars(g,w,h*.6,tm,16,['#FFFFFF','#FFD45C','#FF7AC8'],21,1);
+  // やわらかい光
+  var gl=g.createRadialGradient(cx,cy,R*.9,cx,cy,R*2.1);gl.addColorStop(0,'rgba(255,230,170,.75)');gl.addColorStop(.3,'rgba(255,170,90,.32)');gl.addColorStop(.65,'rgba(255,61,168,.12)');gl.addColorStop(1,'rgba(255,61,168,0)');
+  g.fillStyle=gl;g.beginPath();g.arc(cx,cy,R*2.1,0,Math.PI*2);g.fill();
+  // コロナの筋（細く長い。根元は明るく、先は消える）
+  g.save();g.translate(cx,cy);g.rotate(tm*.05);g.globalCompositeOperation='lighter';
+  for(i=0;i<18;i++){var a=i*Math.PI*2/18+Math.sin(i*2.3)*.12,len=R*(1.5+.9*prand(i*1.7)+.12*Math.sin(tm*1.5+i)),bw=R*(.05+.04*prand(i*3.1)),cv=(prand(i*5.9)-.5)*.5;
+    var sg=g.createLinearGradient(Math.cos(a)*R,Math.sin(a)*R,Math.cos(a)*len,Math.sin(a)*len);sg.addColorStop(0,i%3?'rgba(255,236,190,.9)':'rgba(255,140,210,.85)');sg.addColorStop(1,'rgba(255,200,120,0)');
+    g.beginPath();g.moveTo(Math.cos(a-.09)*R*.98,Math.sin(a-.09)*R*.98);
+    g.quadraticCurveTo(Math.cos(a+cv)*len*.6,Math.sin(a+cv)*len*.6,Math.cos(a+cv*.6)*len,Math.sin(a+cv*.6)*len);
+    g.quadraticCurveTo(Math.cos(a+cv)*len*.6+Math.cos(a+Math.PI/2)*bw,Math.sin(a+cv)*len*.6+Math.sin(a+Math.PI/2)*bw,Math.cos(a+.09)*R*.98,Math.sin(a+.09)*R*.98);
+    g.closePath();g.fillStyle=sg;g.fill();}
   g.restore();
-  g.beginPath();g.arc(cx,cy,R*1.08,0,Math.PI*2);g.fillStyle='#FFE27A';g.fill();g.lineWidth=L;g.strokeStyle=C.k;g.stroke();
-  g.beginPath();g.arc(cx,cy,R*.94,0,Math.PI*2);g.fillStyle='#0A0610';g.fill();g.lineWidth=L;g.strokeStyle=C.k;g.stroke();
-  var ba=-2.3,bx=cx+Math.cos(ba)*R,by=cy+Math.sin(ba)*R,pu=.75+.25*Math.sin(tm*2.4);
-  flatSpot(g,bx,by,w*.12*pu,'rgba(255,255,230,.9)');g.fillStyle='#FFFFFF';flatStar4(g,bx,by,w*.06*pu);g.fill();g.lineWidth=lw;g.strokeStyle=C.k;g.stroke();
-  popPuffs(g,[[w*.0,h*1.0,w*.22],[w*.32,h*1.05,w*.24],[w*.68,h*1.05,w*.24],[w*1.0,h*1.0,w*.22]],'#2C2240',C.k,L);
+  // 黒い太陽と光の輪
+  g.beginPath();g.arc(cx,cy,R*1.06,0,Math.PI*2);g.lineWidth=R*.16;g.strokeStyle='rgba(255,214,140,.35)';g.stroke();
+  var rg=g.createLinearGradient(cx-R,cy-R,cx+R,cy+R);rg.addColorStop(0,'#FFFFFF');rg.addColorStop(.5,'#FFE7A8');rg.addColorStop(1,'#FFB347');
+  g.beginPath();g.arc(cx,cy,R,0,Math.PI*2);g.lineWidth=R*.08;g.strokeStyle=rg;g.stroke();
+  g.beginPath();g.arc(cx,cy,R*.955,0,Math.PI*2);g.fillStyle='#07030D';g.fill();g.lineWidth=L*.8;g.strokeStyle=C.k;g.stroke();
+  g.beginPath();g.arc(cx-R*.28,cy-R*.3,R*.5,0,Math.PI*2);g.fillStyle='rgba(120,70,170,.12)';g.fill();   // 月の面のかすかな照り
+  // ダイヤモンドリング：ふちの1点が強く光り、横に光の筋
+  var ba=-2.35,bx=cx+Math.cos(ba)*R,by=cy+Math.sin(ba)*R,pu=.8+.2*Math.sin(tm*2.4);
+  g.save();g.globalCompositeOperation='lighter';
+  flatSpot(g,bx,by,R*.9*pu,'rgba(255,250,230,.85)');
+  var lg=g.createLinearGradient(bx-w*.7,by,bx+w*.7,by);lg.addColorStop(0,'rgba(255,200,240,0)');lg.addColorStop(.5,'rgba(255,255,255,.95)');lg.addColorStop(1,'rgba(255,200,240,0)');
+  g.fillStyle=lg;g.fillRect(bx-w*.7,by-R*.03,w*1.4,R*.06);
+  g.restore();
+  g.fillStyle='#FFFFFF';flatStar4(g,bx,by,R*.38*pu);g.fill();
+  // 台地とサボテンの影絵（奥・手前）。上のふちに金の光
+  var ridge=function(pts,fill,rim){g.beginPath();g.moveTo(-w*.05,h*1.05);pts.forEach(function(p){g.lineTo(w*p[0],h*p[1]);});g.lineTo(w*1.05,h*1.05);g.closePath();g.fillStyle=fill;g.fill();
+    g.lineJoin='round';g.lineWidth=L;g.strokeStyle=C.k;g.stroke();
+    g.beginPath();pts.forEach(function(p,j){if(j)g.lineTo(w*p[0],h*p[1]);else g.moveTo(w*p[0],h*p[1]);});g.lineWidth=Math.max(1,w*.008);g.strokeStyle=rim;g.stroke();};
+  ridge([[-.05,.74],[.08,.74],[.11,.66],[.3,.66],[.33,.73],[.55,.75],[.6,.62],[.86,.62],[.9,.71],[1.05,.72]],'#24103C','rgba(255,212,92,.75)');
+  ridge([[-.05,.86],[.2,.84],[.4,.88],[.62,.85],[.82,.87],[1.05,.84]],'#0D0618','rgba(255,150,200,.6)');
+  g.save();g.translate(w*.16,h*.85);var cs=w*.0024;g.lineJoin='round';
+  [[-22,-38,9,22],[-22,-22,18,8],[-6,-60,12,62],[13,-48,9,24],[4,-30,18,8]].forEach(function(r){rrPath(g,r[0]*cs,r[1]*cs,r[2]*cs,r[3]*cs,Math.min(r[2],r[3])*cs/2);g.fillStyle='#0D0618';g.fill();g.lineWidth=L*.8;g.strokeStyle=C.k;g.stroke();});
+  [[-22,-38,9,22],[-22,-22,18,8],[-6,-60,12,62],[13,-48,9,24],[4,-30,18,8]].forEach(function(r){rrPath(g,r[0]*cs,r[1]*cs,r[2]*cs,r[3]*cs,Math.min(r[2],r[3])*cs/2);g.fillStyle='#0D0618';g.fill();});
+  g.restore();
+  // のぼる金の粉
+  for(i=0;i<14;i++){var t=(tm*.14+i*.0714)%1;g.globalAlpha=Math.sin(t*Math.PI)*.8;g.fillStyle=i%2?'#FFD45C':'#FF9AD5';flatStar4(g,w*((i*.29+.03)%1),h*(.95-t*.7),w*(.007+.005*(i%3)));g.fill();}
+  g.globalAlpha=1;
 }
 // ============================================================
 // プロフィールカード（ホーム・プロフィール画面・マッチング画面・フレンドで同じ絵を使う）
@@ -13354,7 +13408,7 @@ function drawCrownBelt(g,idx,cx,cy,w,tm){
 }
 function drawCardCrown(g,idx,cx,cy,w,tm){drawCrownBelt(g,idx,cx,cy,w,tm);}   // カードの上の飾り＝弾帯
 function drawProfileCard(g,P,x,y,w,h,tm){
-  var markR=w*.18,top=y+w*.26,ch=h-(top-y),rad=w*.06,lvl=tierInfo(P.tier).lvl,k=ctxScale(g),rk=SIM.rankOf(P.tier),C=popOf(rk.r),bw=w*.024;
+  var markR=w*.18,top=y+w*.26,ch=h-(top-y),rad=w*.06,lvl=tierInfo(P.tier).lvl,k=ctxScale(g),rk=SIM.rankOf(P.tier),C=popOf(rk.r),bdw=w*.024;
   g.save();
   // 影（エクリプス・チャンピオンは、影のかわりにランクの色がにじむ）。ぼかしが重いので、一度だけ描いて貼る
   var sm=w*.2,shc=lvl>=5?hexA(C.b,.55):'';
@@ -13362,10 +13416,10 @@ function drawProfileCard(g,P,x,y,w,h,tm){
     sg.setTransform(k,0,0,k,(sm-x)*k,(sm-top)*k);
     if(shc){sg.shadowColor=shc;sg.shadowBlur=w*.08*k;}
     else{sg.shadowColor='rgba(0,0,0,.6)';sg.shadowBlur=w*.07*k;sg.shadowOffsetY=w*.035*k;}
-    cardQuad(sg,x,top,w,ch,bw);sg.fillStyle='#0B0D14';sg.fill();
+    cardQuad(sg,x,top,w,ch,bdw);sg.fillStyle='#0B0D14';sg.fill();
   }),x-sm,top-sm,w+sm*2,ch+sm*2);
   // 白いステッカーのふち
-  cardQuad(g,x,top,w,ch,bw);g.fillStyle='#FFFFFF';g.fill();g.lineWidth=Math.max(1,w*.004);g.strokeStyle='rgba(20,22,34,.35)';g.stroke();
+  cardQuad(g,x,top,w,ch,bdw);g.fillStyle='#FFFFFF';g.fill();g.lineWidth=Math.max(1,w*.004);g.strokeStyle='rgba(20,22,34,.35)';g.stroke();
   g.save();cardQuad(g,x,top,w,ch,0);g.clip();
   drawTierBg(g,P.bg==null?tierArt(P.tier):P.bg,x,top,w,ch,tm);
   // キャラクター
@@ -13448,9 +13502,9 @@ function drawProfileCard(g,P,x,y,w,h,tm){
   // 絵のふちの太い線
   cardQuad(g,x,top,w,ch,0);g.lineJoin='round';g.lineWidth=Math.max(1.2,w*.01);g.strokeStyle=C.k;g.stroke();
   // エクリプス：白いふちを金の光が走る
-  if(rk.r>=8){g.save();cardQuad(g,x,top,w,ch,bw);cardQuad(g,x,top,w,ch,0,true);g.clip('evenodd');
+  if(rk.r>=8){g.save();cardQuad(g,x,top,w,ch,bdw);cardQuad(g,x,top,w,ch,0,true);g.clip('evenodd');
     var sp=((tm||0)*.35)%1.6,sx=x-w*.6+sp*w*1.6,lg=g.createLinearGradient(sx-w*.25,top,sx+w*.25,top+ch*.4);
-    lg.addColorStop(0,'rgba(255,212,92,0)');lg.addColorStop(.5,'rgba(255,212,92,.95)');lg.addColorStop(1,'rgba(255,212,92,0)');g.fillStyle=lg;g.fillRect(x-bw*2,top-bw*2,w+bw*4,ch+bw*4);g.restore();}
+    lg.addColorStop(0,'rgba(255,212,92,0)');lg.addColorStop(.5,'rgba(255,212,92,.95)');lg.addColorStop(1,'rgba(255,212,92,0)');g.fillStyle=lg;g.fillRect(x-bdw*2,top-bdw*2,w+bdw*4,ch+bdw*4);g.restore();}
   // 上：雲の飾りと紋章・ランク名
   drawCardCrown(g,P.tier,x+w/2,top+w*.004,w,tm);
   drawTierMark(g,P.tier,x+w/2,top+w*.004,markR,tm);
